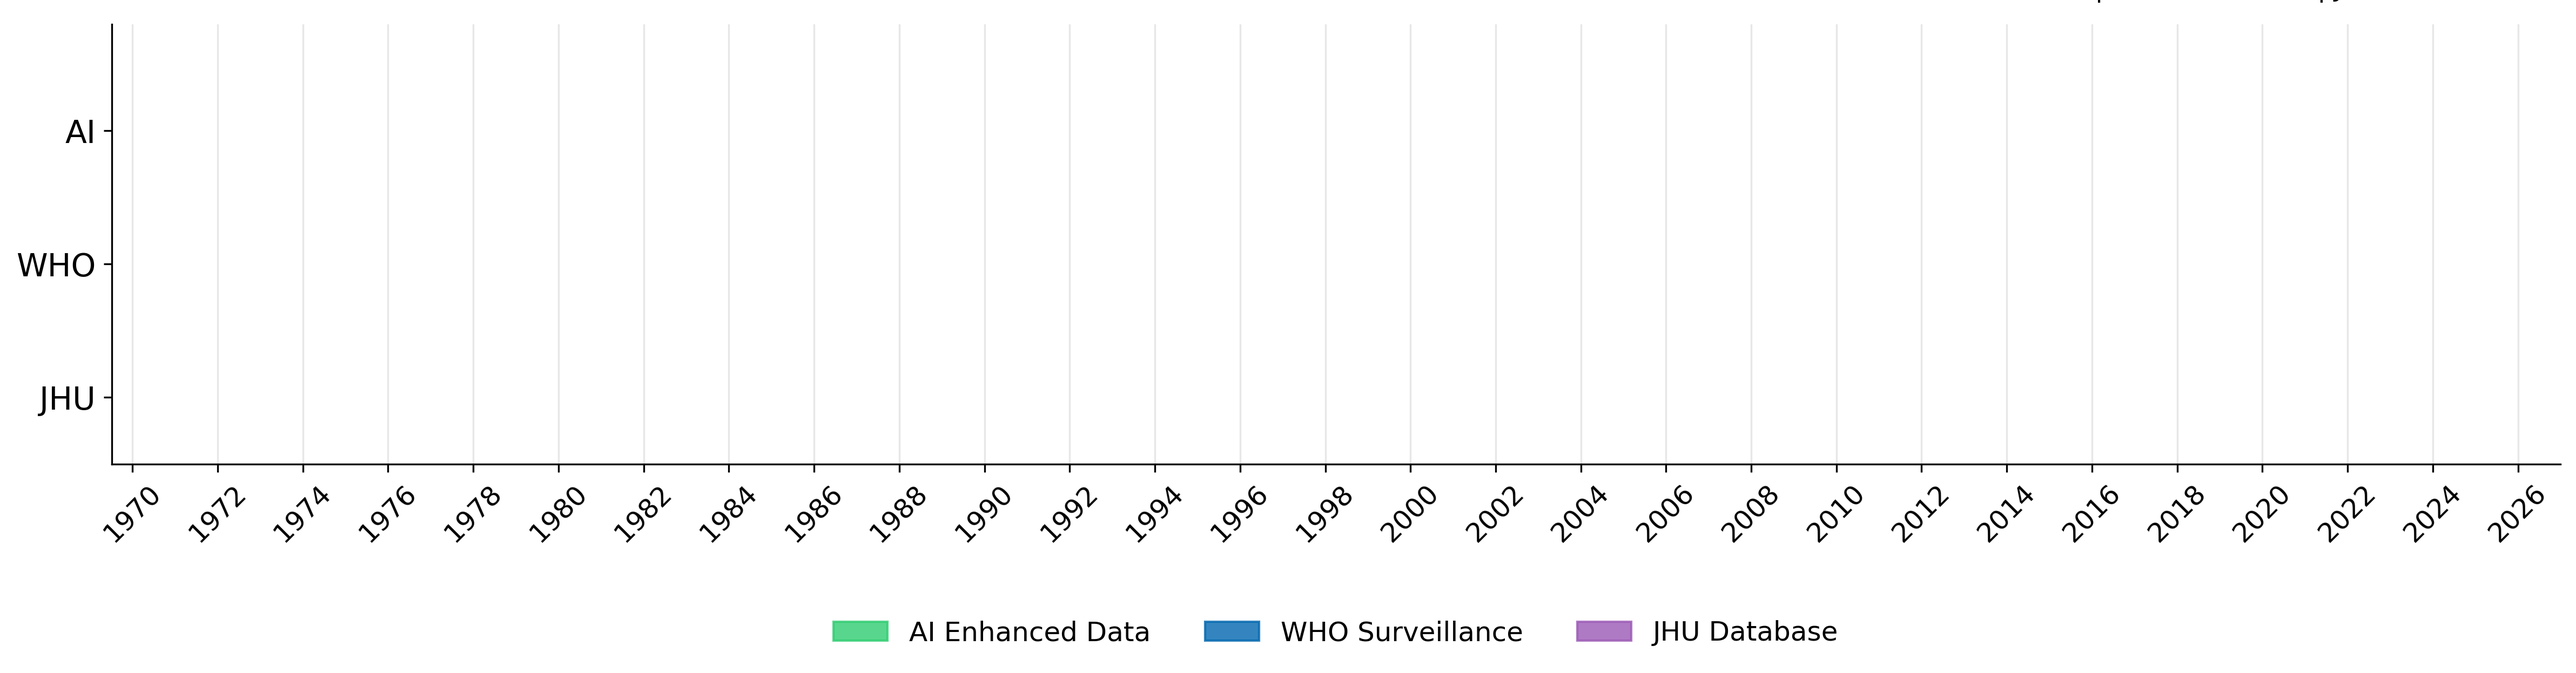
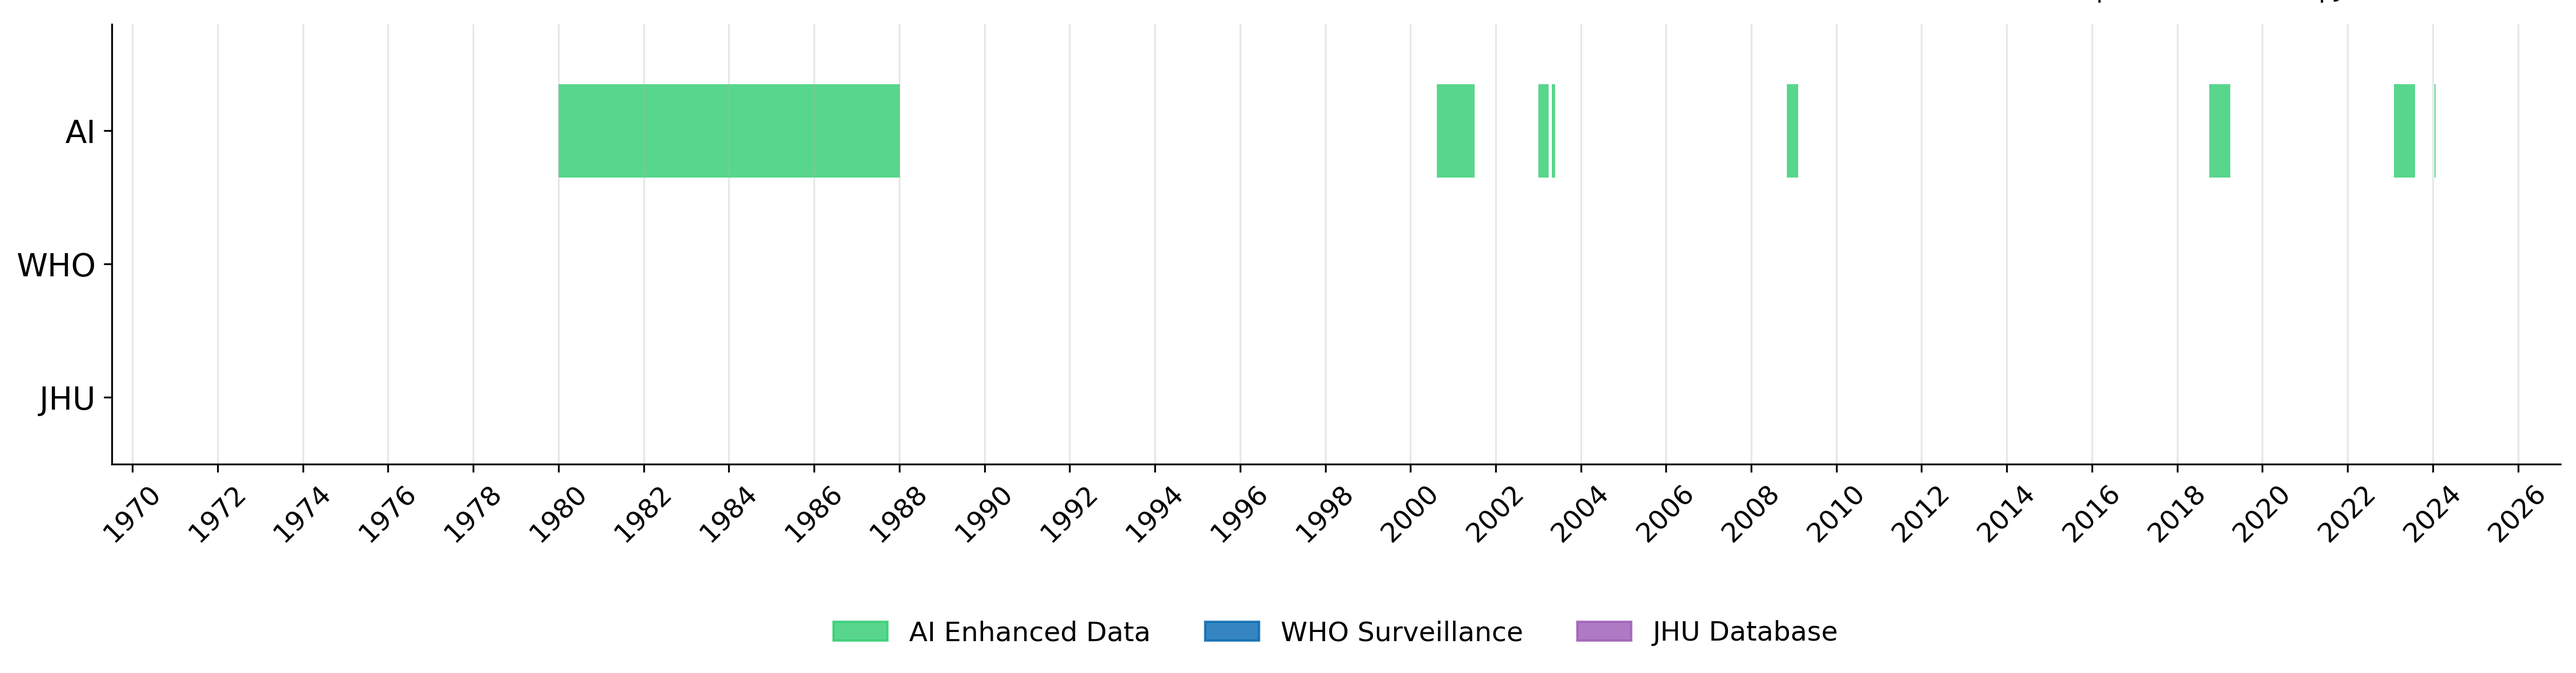
Auto-update dashboard data - 2025-08-01 20:10:58 - Generated with Claude Code

diff --git a/dashboard/dashboard.html b/dashboard/dashboard.html
@@ -2164,15 +2164,15 @@
                 "country": "South Africa",
                 "iso": "ZAF",
                 "status": "PENDING",
-                "datetime": "2025-08-01 19:52:13",
-                "sources": 0,
-                "observations": 0,
-                "date_range": "",
-                "priority": "",
+                "datetime": "2025-08-01 20:10:04",
+                "sources": 10,
+                "observations": 13,
+                "date_range": "1980-2024",
+                "priority": "HIGH",
                 "execution_time": 0,
                 "queries": 0,
                 "yield_pct": 0.0,
-                "notes": "Agent 1 completed | Manual: No activity detected"
+                "notes": "Agent 1 completed; 13 data observations | Manual: No activity detected"
         },
         {
                 "country": "Zambia",
@@ -3786,7 +3786,7 @@ Chad,TCD,160,0,430
 Togo,TGO,1230,66,343
 Tanzania,TZA,1108,122,239
 Uganda,UGA,813,127,319
-South Africa,ZAF,0,0,0
+South Africa,ZAF,546,0,0
 Zambia,ZMB,0,122,373
 Zimbabwe,ZWE,0,119,268`;
 
